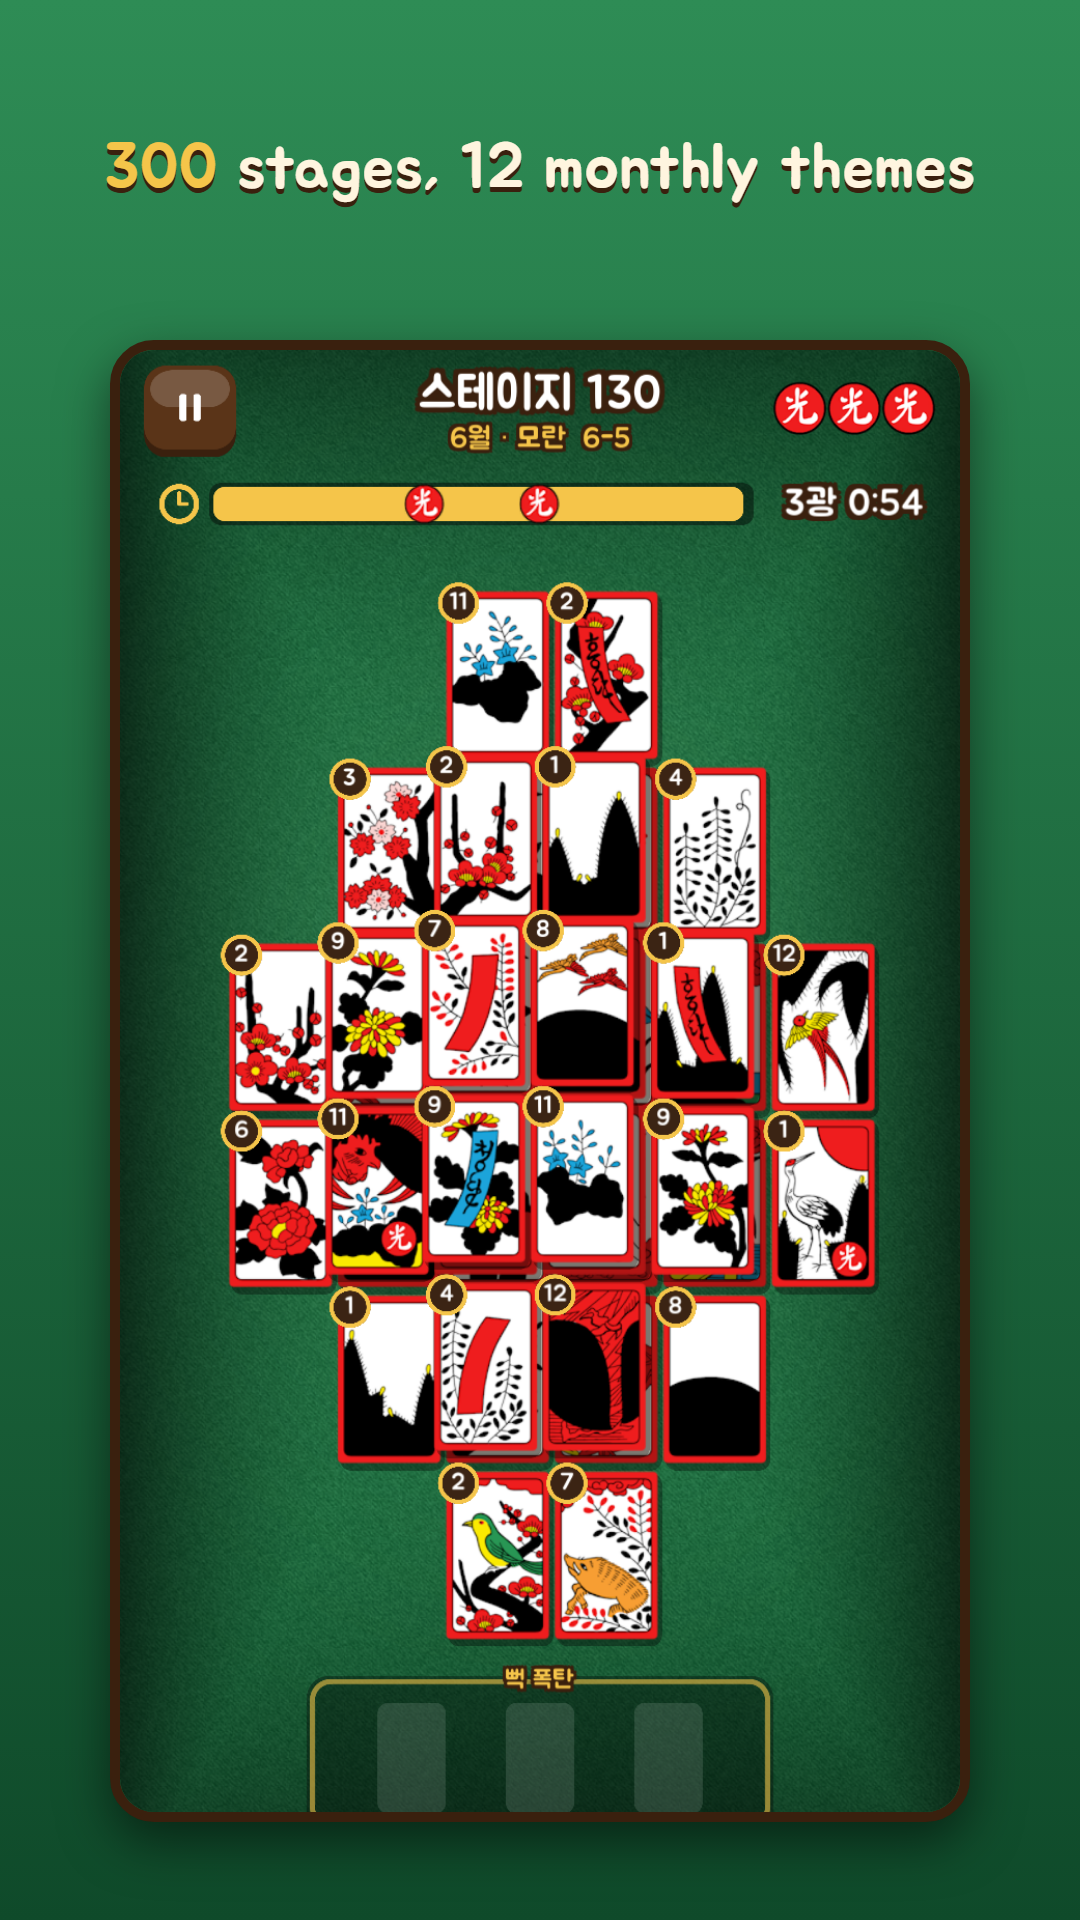
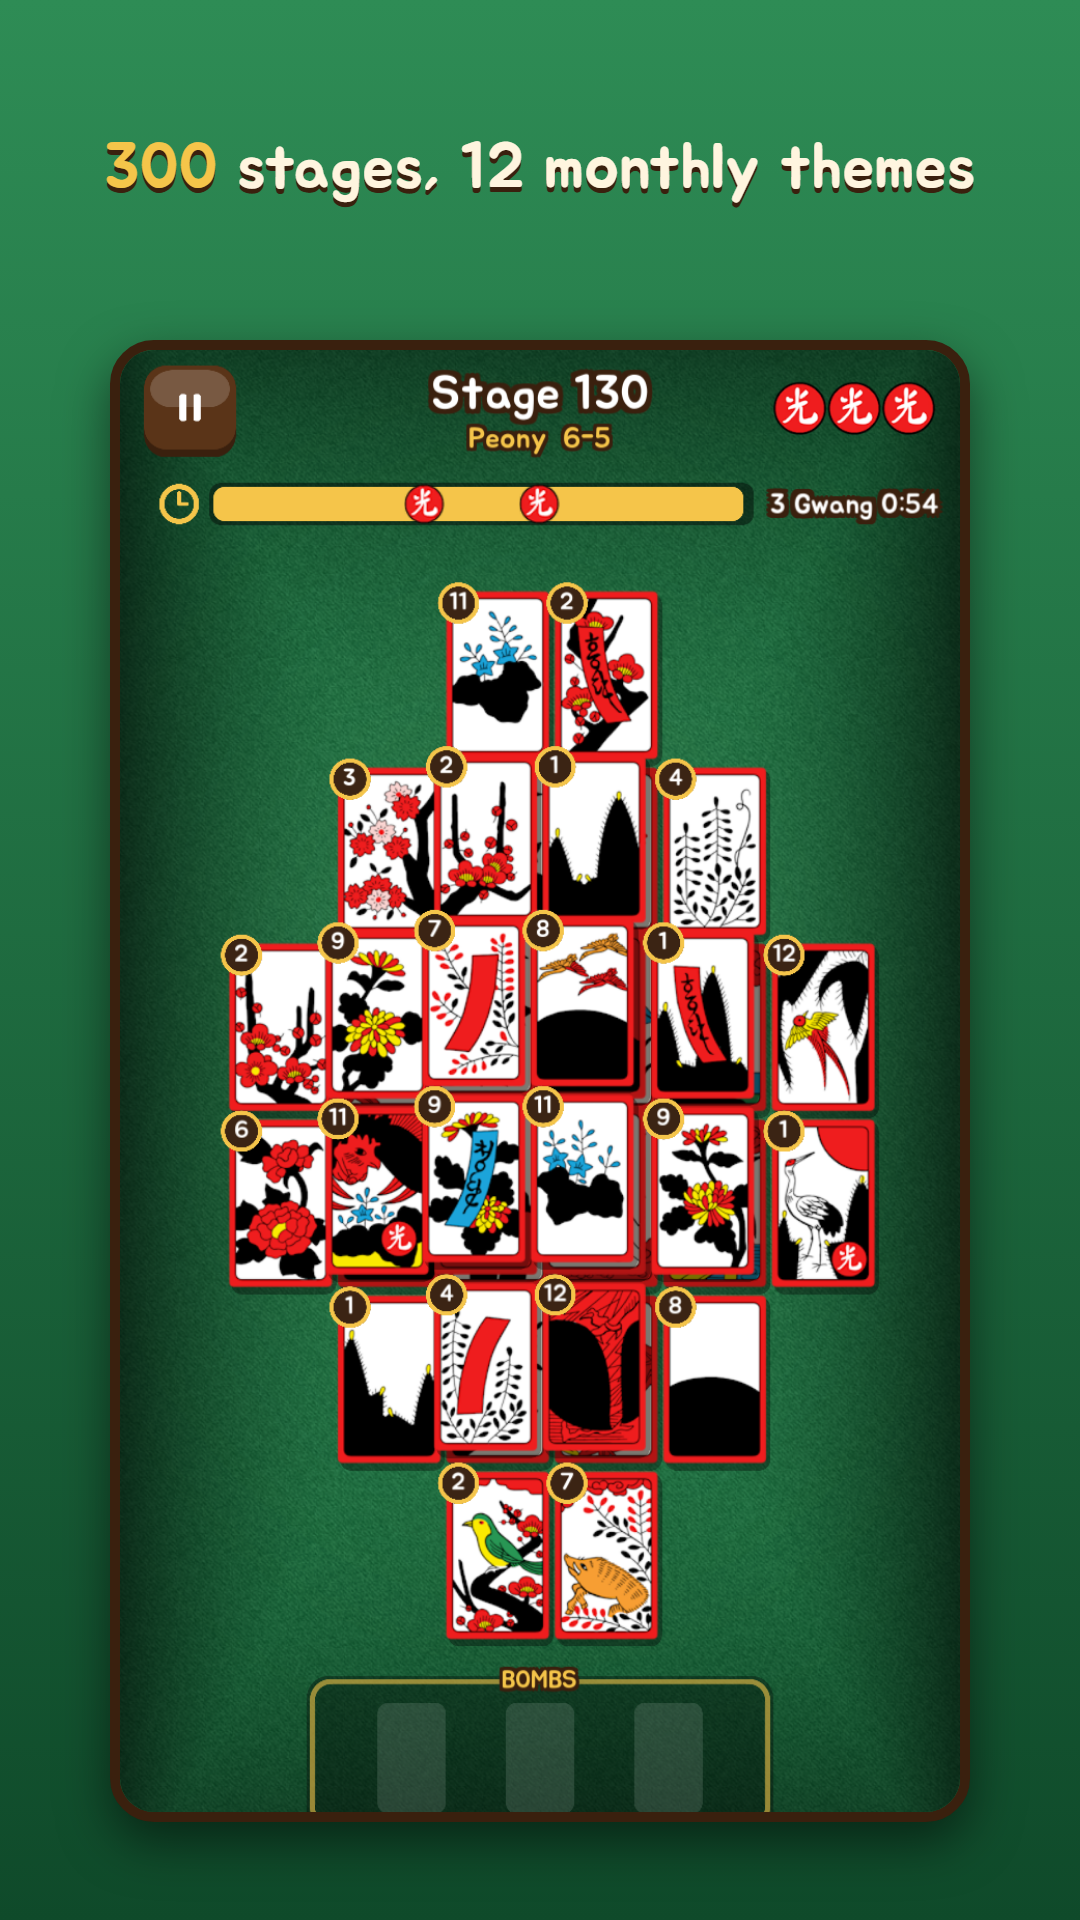
영어 스토어 스크린샷을 영어 게임 화면으로
- DevAutoShot: -autoshot-en 이면 처음부터 영어로 찍음
- screens.js: 영어 세트는 Builds/shots_en 을 씀

Changed region(s): [[0.3667, 0.1875, 0.6111, 0.25], [0.7028, 0.25, 0.8861, 0.2812], [0.4583, 0.8438, 0.5194, 0.9062]]

diff --git a/StoreAssets/src/screens.js b/StoreAssets/src/screens.js
@@ -6,7 +6,8 @@ const ROOT = path.resolve(__dirname, '../..');
 const url = p => 'file:///' + path.resolve(p).split(path.sep).join('/');
 const CHROME = process.env.CHROME || 'C:/Program Files/Google/Chrome/Application/chrome.exe';
 const font = url(path.join(ROOT, 'Assets/Resources/Fonts/Jua-Regular.ttf'));
-const shots = path.join(ROOT, 'Builds/shots');
+// 한국어는 Builds/shots, 영어는 Builds/shots_en (DevAutoShot 에 -autoshot-en 을 더해 찍는다)
+const shotsDir = lang => path.join(ROOT, lang === 'ko' ? 'Builds/shots' : 'Builds/shots_en');
 const list = [
   ['06_snap', '같은 달 두 장을 누르면 <b>짝!</b>', 'Tap two cards of the same month: <b>Snap!</b>'],
   ['08_stacked', '셋째 패까지 얹으면 <b>쌌다!</b> 뻑 폭탄', 'Add a third card for a <b>Ppeok bomb</b>'],
@@ -32,7 +33,7 @@ body { font-family: Jua, sans-serif; background: linear-gradient(#2E8C55, #0F4A2
 .frame img { width: 840px; height: auto; display: block; }
 </style></head><body>
 <div class="cap"><span>${lang === 'ko' ? ko : en}</span></div>
-<div class="frame"><img src="${url(path.join(shots, shot + '.png'))}"></div>
+<div class="frame"><img src="${url(path.join(shotsDir(lang), shot + '.png'))}"></div>
 </body></html>`;
     const tmp = path.join(__dirname, '_tmp.html');
     fs.writeFileSync(tmp, html);

diff --git a/Assets/Scripts/Game/DevAutoShot.cs b/Assets/Scripts/Game/DevAutoShot.cs
@@ -7,11 +7,13 @@ using UnityEngine;
 /// 개발 빌드 확인용: 실행 인자 -autoshot &lt;폴더&gt; 가 있으면 주요 화면을 차례로 열어 스크린샷을 남기고 종료한다.
 /// PC 개발 빌드 전용이라 저장 데이터(PlayerPrefs)는 처음에 지운다.
 ///   Builds/Windows/HwatuSolitaire.exe -screen-width 540 -screen-height 1170 -screen-fullscreen 0 -autoshot shots
+/// -autoshot-en 을 더하면 처음부터 영어로 찍는다 (영어 스토어 스크린샷용).
 /// </summary>
 public class DevAutoShot : MonoBehaviour
 {
     string dir;
     int index;
+    bool english;
 
     public static void StartIfRequested(App app)
     {
@@ -21,16 +23,20 @@ public class DevAutoShot : MonoBehaviour
         PlayerPrefs.DeleteAll();
         Settings.MusicOn = false;
         Settings.SoundOn = false;
-        Loc.Set(true);
+        bool english = System.Array.IndexOf(args, "-autoshot-en") >= 0;
+        Loc.Set(!english);
         Sfx.RefreshMusic();
         var shot = app.gameObject.AddComponent<DevAutoShot>();
         shot.dir = args[i + 1];
+        shot.english = english;
     }
 
     IEnumerator Start()
     {
         Application.runInBackground = true;
         Directory.CreateDirectory(dir);
+        // 언어를 바꾼 뒤 첫 화면을 다시 만든다 (이미 만든 화면은 글자를 바꾸지 않는다)
+        if (english) App.I.ShowTitle();
         yield return Wait(1.5f);
         yield return Shot("title");
 

diff --git a/StoreAssets/StoreListing.md b/StoreAssets/StoreListing.md
@@ -2,7 +2,7 @@
 
 그래픽: `StoreAssets/icon-512.png`(스토어에 올리는 앱 아이콘, 시안 E: 2층으로 쌓인 벚꽃 짝, 반짝이 없음. 둥근 모양 미리 보기 `icon-512-rounded.png`, 다른 시안은 `icon-options/`, `node StoreAssets/src/icons.js <SVG 폴더> <출력>`), `feature-ko.png`·`feature-en.png`(피처 그래픽 1024x500),
 `screenshots/ko`·`screenshots/en`(휴대전화 스크린샷 1080x1920 6장씩). 다시 만들기: `node StoreAssets/src/make.js <화투 SVG 폴더>`,
-`node StoreAssets/src/screens.js` (먼저 Windows 빌드로 `-autoshot Builds/shots` 를 810x1440 으로 찍는다).
+`node StoreAssets/src/screens.js` (먼저 Windows 빌드로 810x1440, 한국어 `-autoshot <절대경로>/Builds/shots`, 영어 `-autoshot <절대경로>/Builds/shots_en -autoshot-en`).
 
 개인정보처리방침: https://kimhanwol.github.io/Unity-HwatuSolitaire-/privacy/
 
